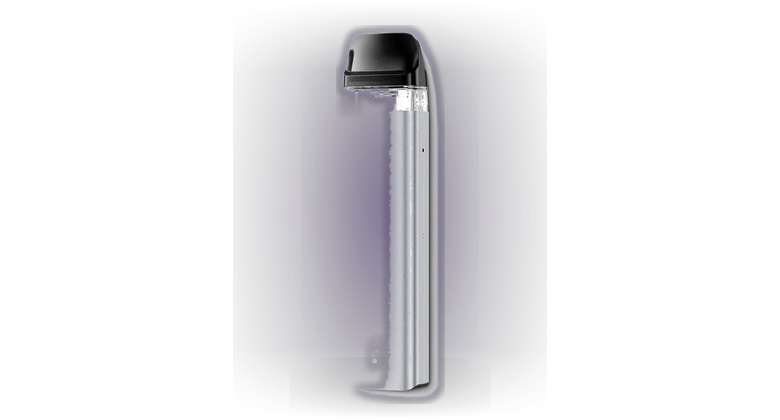
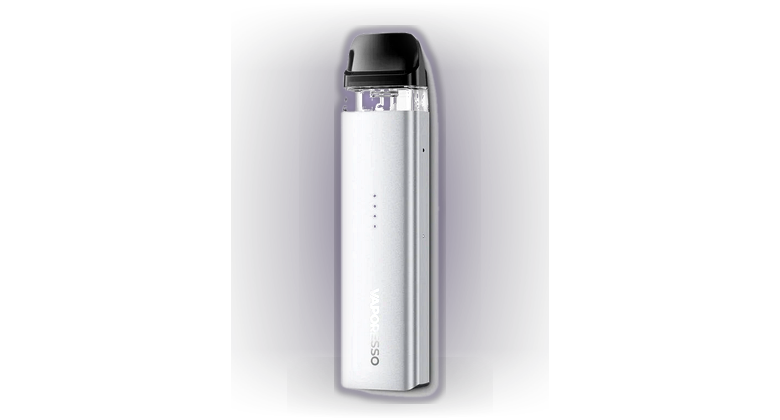
dev17 XROS MINI: восстановлен силуэт Matte Silver (автокеинг съедал левую половину корпуса); общий силуэт для всех цветов; кэш 20261011f

Changed region(s): [[0.4308, 0.1548, 0.5538, 0.9595]]

diff --git a/index.html b/index.html
@@ -5,7 +5,7 @@
 <meta name="viewport" content="width=device-width, initial-scale=1, maximum-scale=1, user-scalable=no">
 <title>VapeOasis — мини-приложение</title>
 <script src="https://telegram.org/js/telegram-web-app.js"></script>
-<link rel="stylesheet" href="style.css?v=20261011e">
+<link rel="stylesheet" href="style.css?v=20261011f">
 </head>
 <body>
 <div id="fx"></div>
@@ -82,7 +82,7 @@
 
 <div class="sheet" id="sheet"><div class="in" id="sheetIn"></div></div>
 
-<script src="products.js?v=20261011e"></script>
-<script src="app.js?v=20261011e"></script>
+<script src="products.js?v=20261011f"></script>
+<script src="app.js?v=20261011f"></script>
 </body>
 </html>

diff --git a/app.js b/app.js
@@ -20,7 +20,7 @@ let discountPick = localStorage.getItem("vo_disc") || null; // жижа, на к
 
 const $ = s=>document.querySelector(s);
 const money = n=>n+"₽";
-const IMG_VER = "20261011e";
+const IMG_VER = "20261011f";
 const imgv = u => u ? (u.indexOf("?")>=0 ? u : u+"?v="+IMG_VER) : u;
 const byId = id=>PRODUCTS.find(p=>p.id===id);
 const catEmoji = c=>({liquids:"🧪",pods:"🔌",disposable:"💨",cartridges:"♻",snus:"📦"}[c]||"•");
